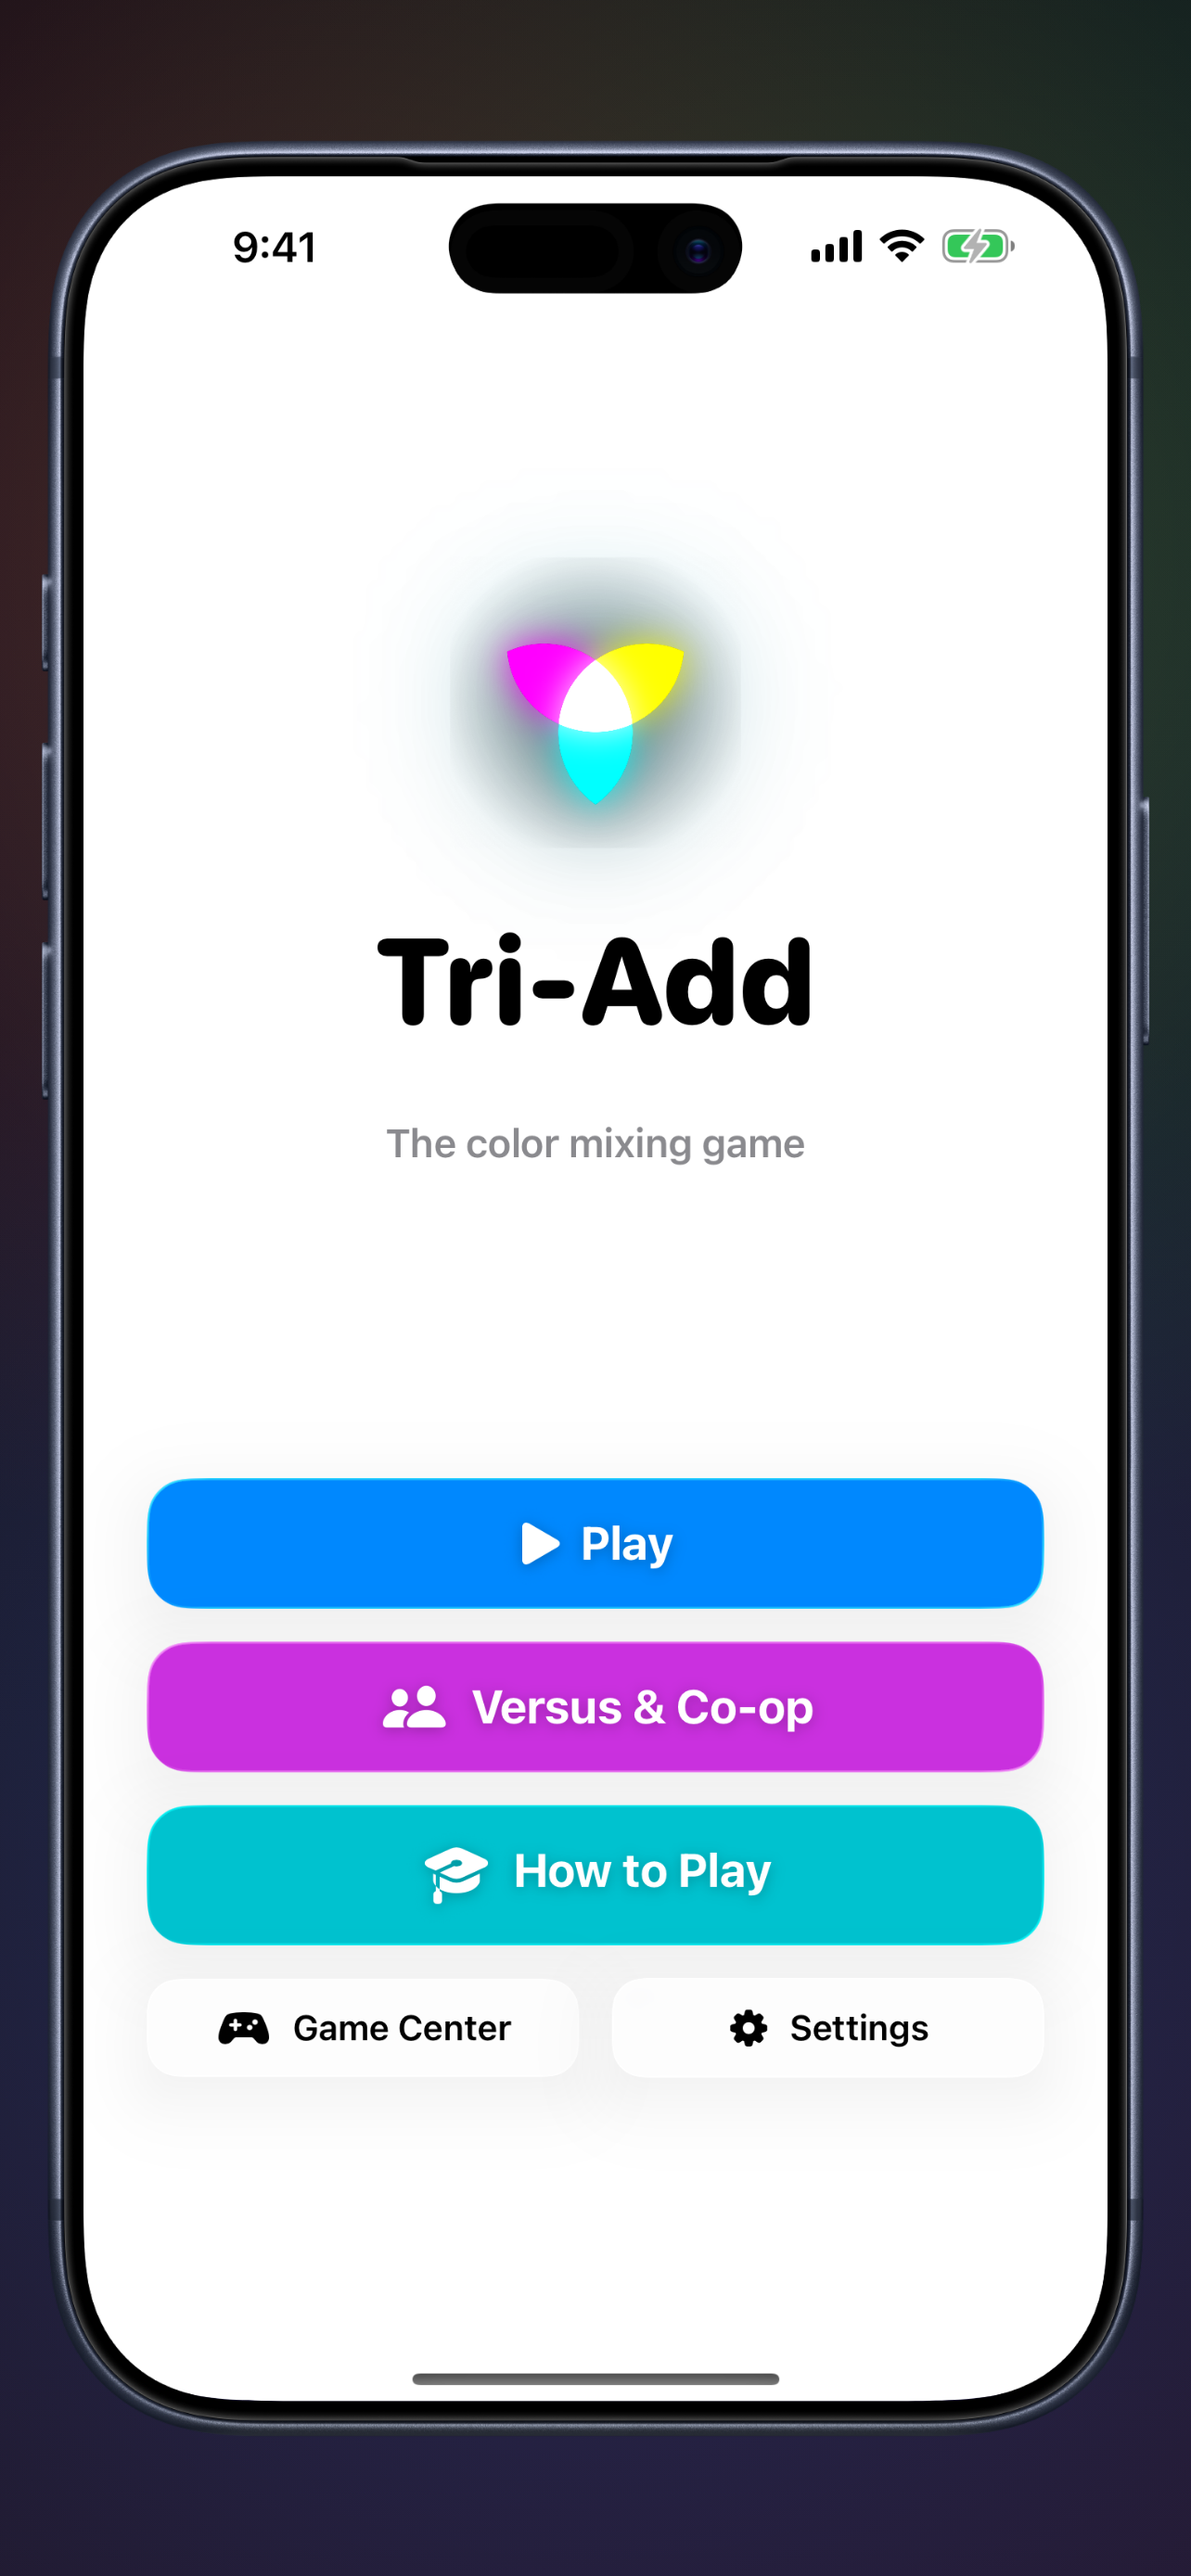
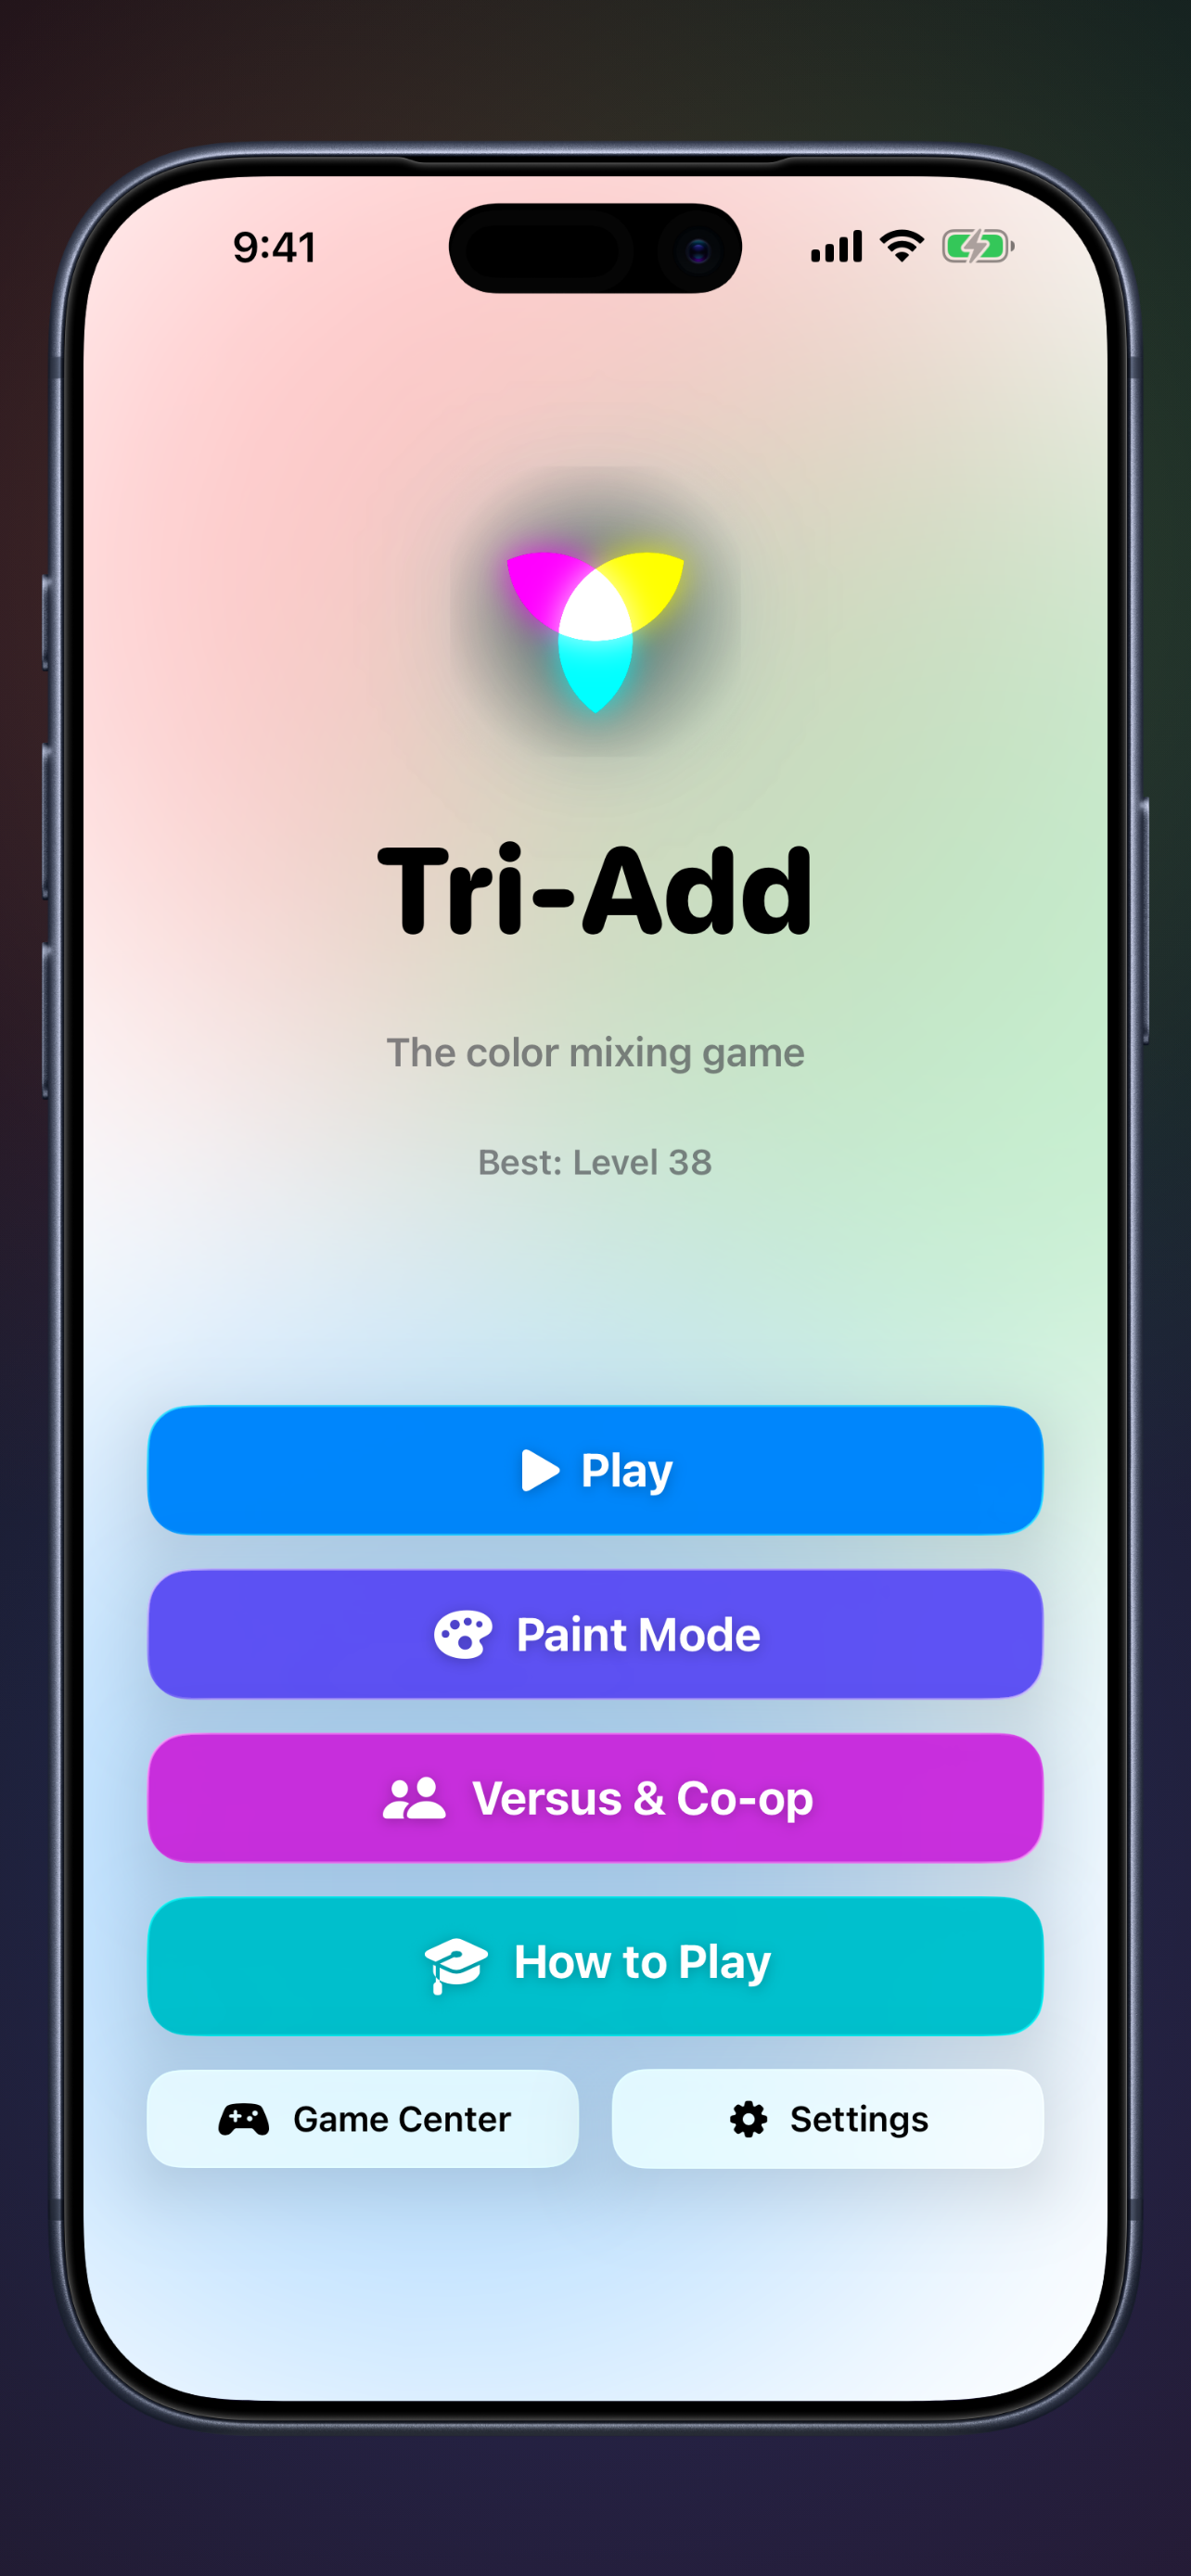
Tri-Add page: menu screenshot now shows Paint Mode (v2.1.0)

diff --git a/apps/tri-add/index.html b/apps/tri-add/index.html
@@ -133,7 +133,7 @@
         <p>And keep an eye out for inversions: every so often the game flips light↔paint mid-run, changing the badge and the whole theme. Solve the first round after a flip to earn a life.</p>
       </div>
       <div class="magazine-image">
-        <img src="assets/images/screenshot-menu.png?v=20260605" alt="The Tri-Add menu"
+        <img src="assets/images/screenshot-menu.png?v=20260605p" alt="The Tri-Add menu"
              onerror="this.style.background='linear-gradient(135deg, #B05CFF, #121218)'; this.style.minHeight='400px'; this.style.display='block';">
       </div>
     </div>